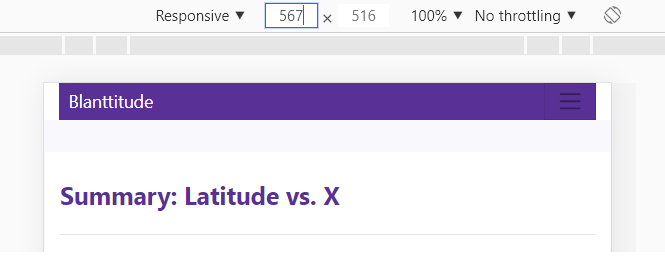
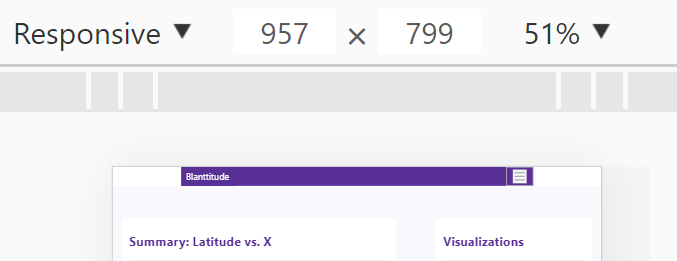
Update the menu image and the styles

diff --git a/dashboard/Resources/style.css b/dashboard/Resources/style.css
@@ -74,7 +74,15 @@ h3, h4 {
     nav.navbar {
       background: #593196;
     }
-    .navbar .nav-item {
+    .navbar .navbar-toggler,
+    .navbar .navbar-toggler:hover,
+    .navbar .navbar-togglere:focus {
+      border-color: lightgrey;
+    }
+   .navbar .navbar-toggler .navbar-toggler-icon {
+      background-color: whitesmoke;
+    }
+   .navbar .nav-item {
       color:#593196;
       background:  white;
     }
